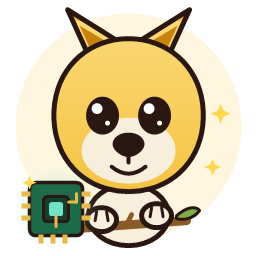
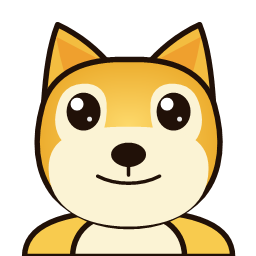
assets,docs: redraw WangChai as a doge-style Shiba bust
- new mascot artwork: wide head, cream mask, orange inner ears, bold outline;
  drops the old NPU-chip-and-twig clutter that read badly at small sizes
- rewrite tools/make-logo.ps1 to render the same geometry; fix its default
  OutDir (was tools/assets, now the repo-root assets/)
- update the README alt text in both languages to match the new look

diff --git a/README.md b/README.md
@@ -1,5 +1,5 @@
 <p align="center">
-  <img src="assets/wangchai.png" width="180" alt="汪柴：一只坐在 Intel AI Boost 旁边的中华田园犬">
+  <img src="assets/wangchai.png" width="180" alt="汪柴：doge 风格的柴犬吉祥物，本引擎的拟人化身">
 </p>
 
 # WangCai 汪柴

diff --git a/README_en.md b/README_en.md
@@ -1,5 +1,5 @@
 <p align="center">
-  <img src="assets/wangchai.png" width="180" alt="WangChai: a Chinese rural dog beside the Intel AI Boost">
+  <img src="assets/wangchai.png" width="180" alt="WangChai: the golden Shiba mascot in the classic doge style">
 </p>
 
 # WangCai 汪柴
